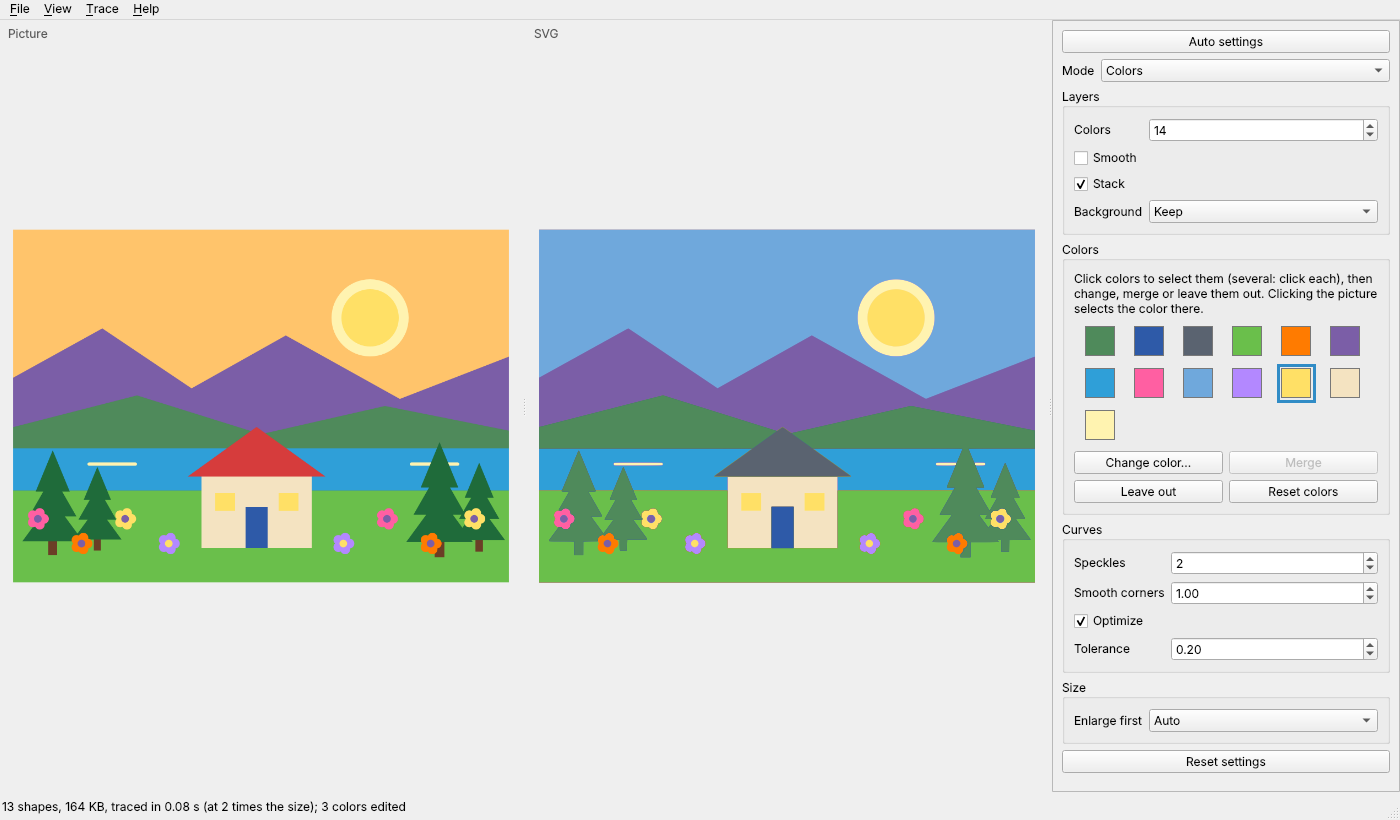
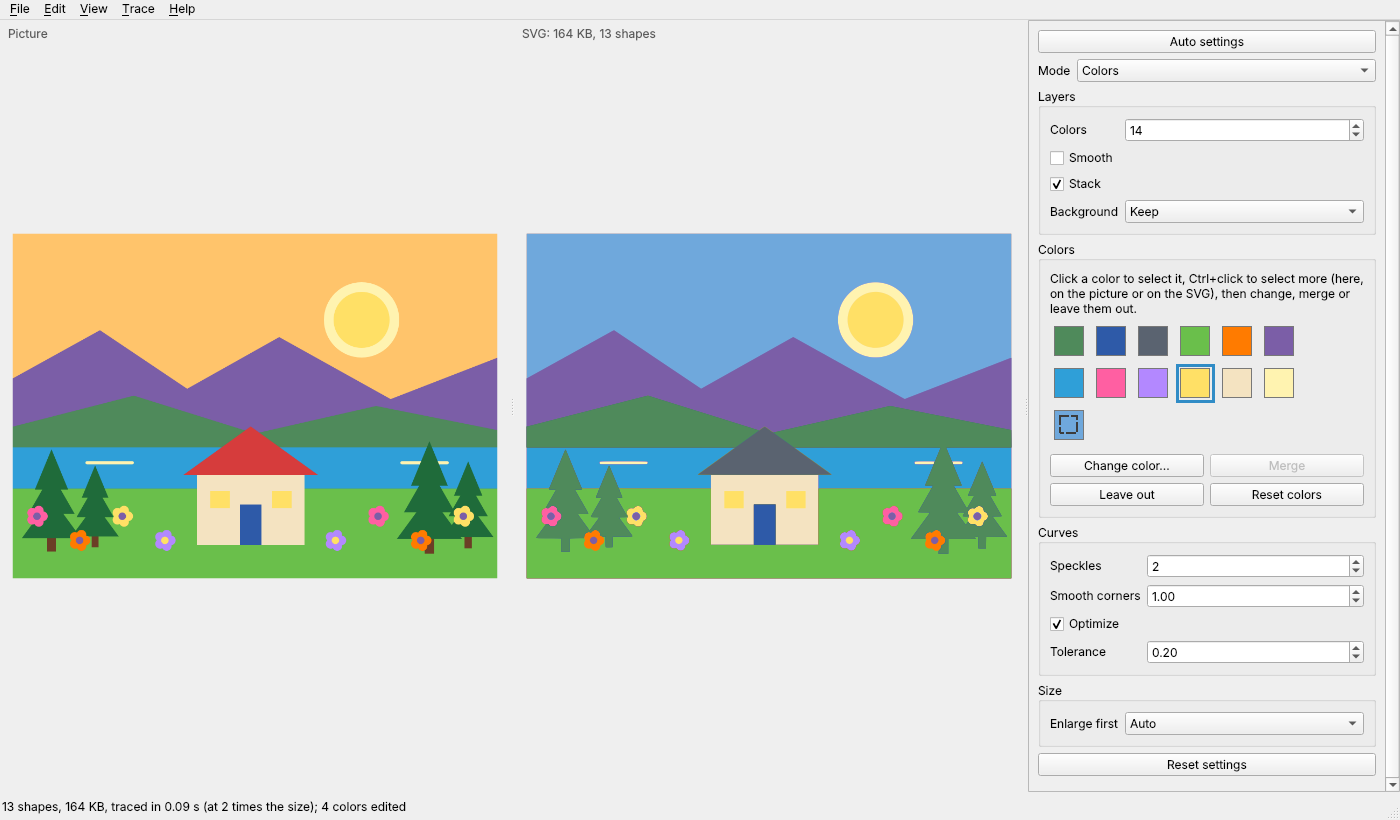
README: new screenshots (the window as it is now) and alt texts; make_screenshots names the merge color; slop check matches British stems and reads CHANGELOG.md and the Colors box's text
Claude-Session: https://claude.ai/code/session_01Ho1n52Zg59vnp58FuFfp21

diff --git a/tools/slop_check.py b/tools/slop_check.py
@@ -63,11 +63,12 @@ def read(f):
         return fh.read()
 
 
-def words_found(text, words):
+def words_found(text, words, stems=False):
+    """The words (stems=True: words starting with them, "grey" in "greyed") found in text."""
     low = text.lower()
     found = []
     for w in words:
-        if re.search(r"(?<![a-z])" + re.escape(w) + r"(?![a-z])", low):
+        if re.search(r"(?<![a-z])" + re.escape(w) + ("" if stems else r"(?![a-z])"), low):
             found.append(w)
     return found
 
@@ -76,13 +77,13 @@ def readers_text():
     """[(where, text)] of what people read: the docs, the help, the window's and the command
     line's own words (string literals in the program)."""
     out = []
-    for f in ("README.md", "RELEASE_NOTES.md", "NOTICE.md"):
+    for f in ("README.md", "RELEASE_NOTES.md", "NOTICE.md", "CHANGELOG.md"):
         if os.path.exists(os.path.join(ROOT, f)):
             out.append((f, read(f)))
     from kanzonassvg import app
     out.append(("the help (app.HELP_HTML)", app.HELP_HTML))
     for f in ("kanzonassvg/app.py", "kanzonassvg/cli.py", "kanzonassvg/updates.py", "kanzonassvg/image.py",
-              "kanzonassvg/engine.py", "kanzonassvg/tracing.py"):
+              "kanzonassvg/engine.py", "kanzonassvg/tracing.py", "kanzonassvg/colors_panel.py"):
         tree = ast.parse(read(f))
         strings = [n.value for n in ast.walk(tree) if isinstance(n, ast.Constant) and isinstance(n.value, str)]
         out.append((f + " (its text)", "\n|\n".join(strings)))    # (no word runs on into the next)
@@ -147,7 +148,7 @@ def check():
             problems.append("%s: filler or a buzzword: %r" % (where, w))
         for w in words_found(text, PLACEHOLDERS):
             problems.append("%s: placeholder text: %r" % (where, w))
-        for w in words_found(text, BRITISH):
+        for w in words_found(text, BRITISH, stems=True):
             problems.append("%s: British spelling: %r (the rule: American)" % (where, w))
         for m in re.finditer(r"(?<![\w-])([A-Za-z]{2,})\s+\1(?![\w-])", text):
             if m.group(1).lower() not in ("that", "had", "is"):    # (rightly doubled sometimes)

diff --git a/tools/make_screenshots.py b/tools/make_screenshots.py
@@ -124,8 +124,9 @@ def evening(w):
     c.selected = set(group((0xFF, 0xC4, 0x6B)).members)
     c.change_color((0x6F, 0xA8, 0xDC))
     settle(w)
-    c.selected = set(group((0x1F, 0x6B, 0x3A)).members) | set(group((0x4F, 0x8A, 0x5B)).members)
-    c.merge()
+    greens = [group((0x1F, 0x6B, 0x3A)), group((0x4F, 0x8A, 0x5B))]
+    c.selected = set(greens[0].members) | set(greens[1].members)
+    c.merge(max(greens, key=lambda g: g.count).color)     # (merge() alone asks which color stays)
     settle(w)
     c.selected = set(group((0xD6, 0x3C, 0x3C)).members)
     c.change_color((0x5A, 0x63, 0x70))

diff --git a/CHANGELOG.md b/CHANGELOG.md
@@ -2,7 +2,7 @@
 
 | Version | Date | Commit | What changed |
 |---|---|---|---|
-| 1.2.3 | 2026-11-17 | (this one) | The settings panel no longer moves when the number of colors changes (the owner: the mouse was no longer over the Colors arrows): more colors (more rows of swatches) brought the panel's scroll bar, which made it 14 px narrower and moved the arrows sideways; it's now always shown (greyed when there's nothing to scroll: keeping room for it instead missed by 8 px on GitHub's Linux machine, its width depending on the style). And with wider fonts (GitHub's Linux machine) the panel was narrower than its contents: a scroll bar across came and went with the rows of swatches and the contents widened 14 px under the mouse; the swatch grid now always keeps its six columns, and the panel is never narrower than its contents. Fewer colors, with the panel scrolled to the bottom, pulled everything 42 px down; the Colors box now keeps the height it has had for the picture (a new picture starts compact), its swatches at the top left. Test: the arrows stay put through 8, 24, 40, 6, 30 and 3 colors in a 900 and a 600 px window (they moved without the fix). |
+| 1.2.3 | 2026-11-17 | (this one) | The settings panel no longer moves when the number of colors changes (the owner: the mouse was no longer over the Colors arrows): more colors (more rows of swatches) brought the panel's scroll bar, which made it 14 px narrower and moved the arrows sideways; it's now always shown (grayed when there's nothing to scroll: keeping room for it instead missed by 8 px on GitHub's Linux machine, its width depending on the style). And with wider fonts (GitHub's Linux machine) the panel was narrower than its contents: a scroll bar across came and went with the rows of swatches and the contents widened 14 px under the mouse; the swatch grid now always keeps its six columns, each as wide as a swatch measures on that system, and the panel's minimum width follows its contents (worked out again whenever they change, only ever wider). Fewer colors, with the panel scrolled to the bottom, pulled everything 42 px down; the Colors box now keeps the height it has had for the picture (a new picture starts compact), its swatches at the top left. Test: the arrows stay put through 8, 24, 40, 6, 30 and 3 colors in a 900 and a 600 px window (they moved without the fix), with the panel squeezed to its minimum as on GitHub's machine. README: new screenshots (the window as it is now: the Edit menu, the SVG's size, the background's own swatch; tools/make_screenshots.py named the merge color, as merge() asks since 1.2.1) and their alt texts. Slop check: British spellings matched as stems (one with an ending added got past it in this very row) and it reads CHANGELOG.md and the Colors box's text too. |
 | 1.2.2 | 2026-11-16 | 1d99723 | Colors: the background is a swatch of its own (a dashed frame), apart from the same color inside the picture: merging, changing or leaving out the white inside a letter changed the whole background with it (the owner's report: "if the color is the same as the background, it merges all of it"). The background is the background color's area reaching the edge, or the transparent part: what Background: Remove leaves out, found before any edit (so Remove still takes it whatever it's traced as, and a color merged into the background's color stays a shape). Clicking the background selects its swatch, that color inside the picture the other; the background color's stray pixels inside (under 0.05% of the picture) go with its swatch. Engine: kz_color_edit.where (everywhere, inside, the background: an edit for the area over one for everywhere); when the background's edit isn't the inside's it's a layer of its own (stacked, the bottom one); kz_palette gives the background as one more color and its pixels (a mask). With no edits the SVG is the same as before. The command line's --recolor and --leave-out still change a color everywhere. Tests: tests/test_colors.py (the background apart from the inside in the engine and the window, an edit for the area over one for everywhere, Remove with edits, stray pixels, clicks); random areas (and nonsense) in the engine battery's edits. |
 | 1.2.1 | 2026-11-14 | ebf77ca | Colors: a click (on a swatch, the picture or now also the SVG) selects just that color, Ctrl+click adds one or takes a selected one out (before, every click on a swatch added to the selection, and the SVG took no clicks); Merge opens a list of the selected colors (biggest first) to pick the one they become, or Another color... (before: always the biggest). Edit > Undo (Ctrl+Z) and Edit > Redo (Ctrl+Y, Ctrl+Shift+Z): every SVG traced for the picture shown, with its settings, color edits and crop (a change after an Undo drops what Redo would bring back; a new picture starts afresh). Above the SVG: its size, as Save SVG writes it, and its shapes. Tests: tests/test_colors.py (Ctrl+click on the SVG, merge into a picked or another color, Undo and Redo through color edits, settings and a crop, the size shown is the size saved); the app battery Ctrl+clicks, undoes and redoes, and checks that Undo's place is what's shown. |
 | 1.2 | 2026-11-13 | 7760e53 | Editing colors: a Colors box (Colors, Grays and Autotrace: colors) with a swatch for each color traced; select swatches (or click the picture) and Change color... (the shapes stay, their color changes), Merge (traced as one color, in one layer: that of the biggest; merged colors show as one swatch), Leave out (see-through; Put back) or Reset colors. The picture never changes; the edits are for the picture shown (a new picture and Reset settings clear them) and still apply when the colors are picked again (another number of colors, Smooth, a crop, Auto): each goes to the traced color nearest the one it was made on, within 24 levels; one that matches no color is kept and the box says so. The status bar says how many colors are edited. Engine: kz_options.edits (kz_color_edit: from, to, leave_out), applied to the palette after the (cached) color reduction and before tracing, also in the preview and Autotrace; kz_palette (the colors a trace uses, with their pixel counts). Command line: --list-colors, --recolor FROM=TO, --leave-out COLOR. Fixed: with Crop picture, a click (not a drag) right across a pixel's edge cropped to 2 x 2 pixels (found by the Windows build: its window put a test's click there); under 4 screen pixels moved is a click. |

diff --git a/README.md b/README.md
@@ -4,7 +4,7 @@
 
 Turn pictures (logos, drawings, scans) into SVG files, on Windows and Linux.
 
-![The KanzonasSVG window: on the left, a picture of a yellow sunflower with a brown center on a dark green cactus; on the right, its SVG traced in 6 flat colors with Auto settings, petals, center and cactus matching the picture; the settings panel on the right shows Colors mode, 6 colors and Background: Remove](docs/screenshot.png)
+![The KanzonasSVG window: on the left, a picture of a yellow sunflower with a brown center on a dark green cactus; on the right, its SVG traced in 6 flat colors with Auto settings, petals, center and cactus matching the picture, its size (160 KB, 6 shapes) above it; the settings panel on the right shows Colors mode, 6 colors, Background: Remove, and the Colors box with the six colors traced and a dashed swatch for the see-through background](docs/screenshot.png)
 
 KanzonasSVG does one thing: it traces a picture into an SVG. Open a picture and it picks the
 settings that suit it (how many colors, smoothing, background) and shows the SVG beside it;
@@ -71,7 +71,7 @@ installed until you click it. (1.0.x doesn't have this: install 1.1 by hand once
 dark) see-through and keeps that color inside shapes; *Remove, also inside* removes that color
 everywhere.
 
-![The Colors box: the flat illustration's SVG with its sky traced blue instead of orange, its roof slate gray instead of red, and its two darker greens merged into one; the swatches of the colors traced on the right, the sun's yellow selected](docs/screenshot-colors.png)
+![The Colors box: the flat illustration's SVG with its sky traced blue instead of orange, its roof slate gray instead of red, and its two darker greens merged into one; the swatches of the colors traced on the right, the sun's yellow selected, and the status bar saying 4 colors edited](docs/screenshot-colors.png)
 
 ![A flat illustration traced with Auto settings: an orange sky with a pale yellow sun, purple mountains, a green hill, a blue lake, dark green pines, a cream house with a red roof and blue door, and pink, orange, yellow and lilac flowers in the grass; the SVG on the right matches it in 14 flat colors](docs/screenshot-landscape.png)
 
